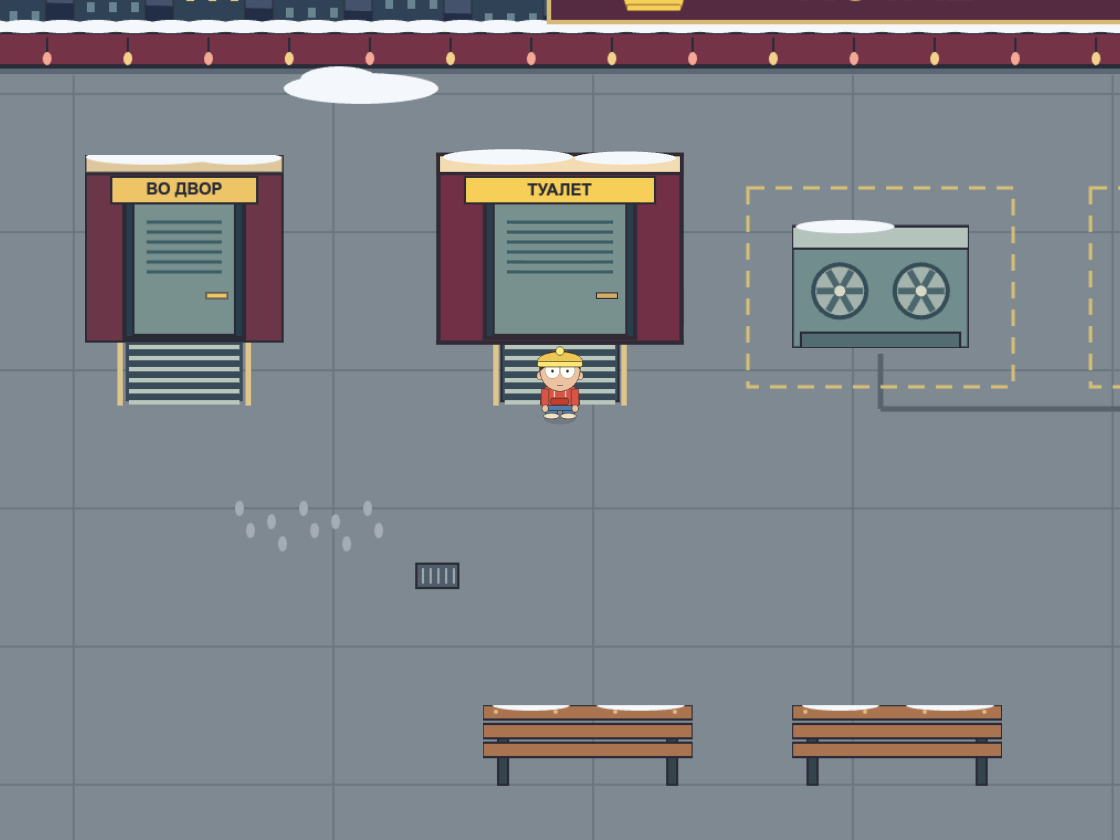
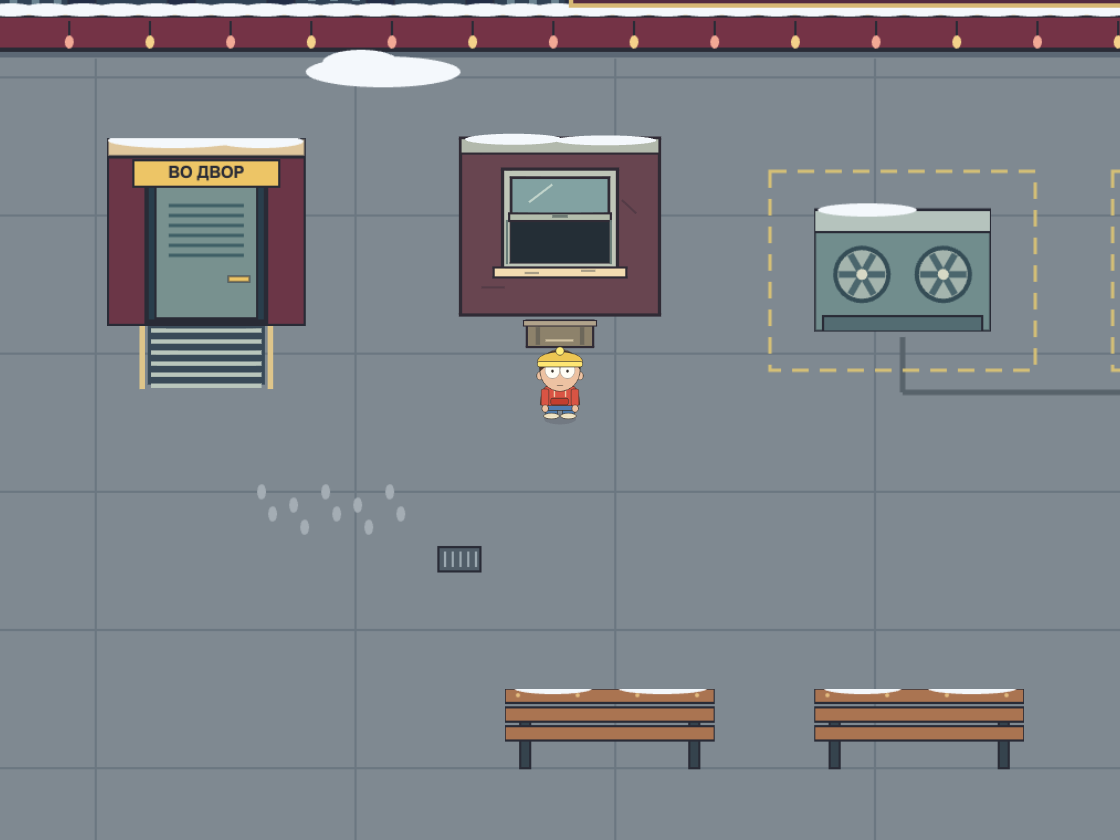
Refine rooftop restroom concept with a discreet window and compact room

diff --git a/docs/concepts/casino-rooftop-toilet/reference-scene.ts b/docs/concepts/casino-rooftop-toilet/reference-scene.ts
@@ -7,26 +7,29 @@ import { characterTexture,CHARACTER_SCALE } from '../../../src/game/characters';
 import { appearanceFromLegacy,serializeAppearance } from '../../../src/shared/appearance';
 
 // Proposal only. This scene never registers a hall or changes the running game.
-export const TOILET_ENTRY={x:760,y:410,w:220,h:170,approach:{x:870,y:650},trigger:{x:870,y:620}};
-export const TOILET_ROOM={width:1320,height:ROOF.height,floor:{...FLOOR,width:1320-FLOOR.x*2},bounds:{...BOUNDS,right:1250},spawn:{x:660,y:1210},exit:{x:660,y:1300}};
+export const TOILET_ENTRY={x:760,y:410,w:180,h:160,kind:'open-service-window',step:{x:820,y:575,w:60,h:24},approach:{x:850,y:665},trigger:{x:850,y:620}};
+export const TOILET_ROOM={width:740,height:610,floor:{...FLOOR,width:630,height:375},bounds:{...BOUNDS,right:670,bottom:530},spawn:{x:150,y:260},exit:{x:150,y:260},window:{x:110,y:46,w:104,h:92},step:{x:120,y:185,w:60,h:35}};
 const ink=0x302b35,cream=0xf3dcb1,gold=0xd4ae64,burgundy=0x713046,teal=0x315c64;
-const sinks=[{x:160,y:265,w:130,h:125},{x:350,y:265,w:130,h:125}];
-const stalls=[650,850,1050].map(x=>({x,y:220,w:180,h:190}));
+const sinks=[{x:100,y:350,w:84,h:80},{x:230,y:350,w:84,h:80}];
+const stalls=[355,460,565].map(x=>({x,y:220,w:87,h:94}));
+const bin={x:590,y:450,w:42,h:48},radiator={x:85,y:465,w:32,h:55};
 const roomObstacles:Obstacle[]=[
-  {x:0,y:0,w:1320,h:BOUNDS.top-1},{x:0,y:0,w:BOUNDS.left-1,h:1380},
-  {x:1251,y:0,w:5000,h:1380},{x:0,y:1301,w:590,h:100},{x:730,y:1301,w:590,h:100},...sinks,...stalls,
-  {x:130,y:920,w:200,h:60},{x:95,y:600,w:75,h:130},{x:500,y:400,w:60,h:65},
+  {x:0,y:0,w:TOILET_ROOM.width,h:BOUNDS.top-1},{x:0,y:0,w:BOUNDS.left-1,h:TOILET_ROOM.height},
+  {x:TOILET_ROOM.bounds.right+1,y:0,w:5000,h:TOILET_ROOM.height},
+  {x:0,y:TOILET_ROOM.bounds.bottom+1,w:TOILET_ROOM.width,h:100},...sinks,...stalls,
+  bin,radiator,TOILET_ROOM.step,
 ];
 
 export function geometryChecks(){
-  const roofObstacles=[...ROOF_OBSTACLES,TOILET_ENTRY];
-  const overlap=ROOF_OBSTACLES.some(o=>TOILET_ENTRY.x<o.x+o.w&&TOILET_ENTRY.x+TOILET_ENTRY.w>o.x&&TOILET_ENTRY.y<o.y+o.h&&TOILET_ENTRY.y+TOILET_ENTRY.h>o.y);
+  const roofObstacles=[...ROOF_OBSTACLES,TOILET_ENTRY,TOILET_ENTRY.step];
+  const overlap=[TOILET_ENTRY,TOILET_ENTRY.step].some(p=>ROOF_OBSTACLES.some(o=>p.x<o.x+o.w&&p.x+p.w>o.x&&p.y<o.y+o.h&&p.y+p.h>o.y));
   const roofPath=findPath(ROOF.spawn,TOILET_ENTRY.approach,roofObstacles);
   const perimeter=ROOF.loop.every((p,i)=>findPath(p,ROOF.loop[(i+1)%ROOF.loop.length],roofObstacles).length>0);
-  const targets=[{x:225,y:450},{x:415,y:450},...stalls.map(p=>({x:p.x+p.w/2,y:p.y+p.h+65})),TOILET_ROOM.exit];
+  const targets=[...sinks.map(p=>({x:p.x+p.w/2,y:p.y+p.h+50})),...stalls.map(p=>({x:p.x+p.w/2,y:p.y+p.h+50})),TOILET_ROOM.exit];
   const approaches=targets.map(p=>({point:p,walkable:walkable(p.x,p.y,roomObstacles,16),path:findPath(TOILET_ROOM.spawn,p,roomObstacles).length>0}));
-  if(overlap||!roofPath.length||!perimeter||approaches.some(p=>!p.walkable||!p.path))throw Error('Reference geometry has an obstructed approach');
-  return {roof:{width:ROOF.width,height:ROOF.height,deck:ROOF.deck,entry:TOILET_ENTRY,existingPropsUnmoved:true,noOverlap:!overlap,approachReachable:true,perimeterReachable:perimeter},room:{...TOILET_ROOM,proposed:true,approaches,obstacles:roomObstacles},projection:'Same camera fit and upright sprites as RoomScene.resizeView',character:{scale:CHARACTER_SCALE,width:96*CHARACTER_SCALE,height:144*CHARACTER_SCALE}};
+  const roofApproaches=[TOILET_ENTRY.approach,TOILET_ENTRY.trigger].every(p=>walkable(p.x,p.y,roofObstacles,16)&&findPath(ROOF.spawn,p,roofObstacles).length>0);
+  if(overlap||!roofPath.length||!roofApproaches||!perimeter||approaches.some(p=>!p.walkable||!p.path))throw Error('Reference geometry has an obstructed approach: '+JSON.stringify({overlap,roofApproaches,perimeter,approaches}));
+  return {roof:{width:ROOF.width,height:ROOF.height,deck:ROOF.deck,entry:TOILET_ENTRY,existingPropsUnmoved:true,noOverlap:!overlap,approachReachable:roofApproaches,perimeterReachable:perimeter},room:{...TOILET_ROOM,proposed:true,stalls,sinks,approaches,obstacles:roomObstacles,floorArea:TOILET_ROOM.floor.width*TOILET_ROOM.floor.height,previousFloorArea:1210*1145},projection:'Same camera fit and upright sprites as RoomScene.resizeView',character:{scale:CHARACTER_SCALE,width:96*CHARACTER_SCALE,height:144*CHARACTER_SCALE}};
 }
 
 export function startReference(mode:'roof'|'room',close:boolean){
@@ -34,8 +37,8 @@ export function startReference(mode:'roof'|'room',close:boolean){
   class ReferenceScene extends Phaser.Scene{
     create(){
       const frame=mode==='roof'?ROOF:TOILET_ROOM;
-      if(mode==='roof'){new RooftopRenderer(this,()=>{});this.roofDoor();}else this.restroom();
-      const point=mode==='roof'?TOILET_ENTRY.approach:close?{x:605,y:360}:TOILET_ROOM.spawn;
+      if(mode==='roof'){new RooftopRenderer(this,()=>{});this.roofWindow();}else this.restroom();
+      const point=mode==='roof'?TOILET_ENTRY.approach:close?{x:425,y:420}:TOILET_ROOM.spawn;
       const player=this.add.sprite(point.x,point.y,characterTexture(this,0,serializeAppearance(appearanceFromLegacy(0))),'down-6').setOrigin(.5,1).setScale(CHARACTER_SCALE).setDepth(point.y);
       this.add.ellipse(point.x,point.y-1,29,10,0x27202c,.15).setDepth(point.y-1);
       const fit=Math.min(size.width/(frame.width-40),size.height/(frame.height-HALL_WALL.viewTop-50));
@@ -47,42 +50,50 @@ export function startReference(mode:'roof'|'room',close:boolean){
     }
     box(g:Phaser.GameObjects.Graphics,x:number,y:number,w:number,h:number,color:number,edge=ink,line=2){g.fillStyle(color).fillRect(x,y,w,h);if(line)g.lineStyle(line,edge).strokeRect(x,y,w,h);}
     label(x:number,y:number,text:string,size=15,color='#f3dcb1',depth=10){return this.add.text(x,y,text,{fontFamily:'Arial',fontSize:size,fontStyle:'bold',color}).setOrigin(.5).setDepth(depth);}
-    roofDoor(){
+    serviceWindow(g:Phaser.GameObjects.Graphics,x:number,y:number){
+      this.box(g,x,y,104,92,0xbfc6b8,ink,3);this.box(g,x+7,y+7,90,78,0x242e36,ink,1);
+      this.box(g,x+8,y+8,88,34,0x82a2a2,ink,2);
+      g.lineStyle(2,0xc0d3ca).lineBetween(x+24,y+30,x+45,y+14);
+      this.box(g,x+6,y+40,92,7,0xb3bdac,ink,2);this.box(g,x+45,y+41,14,3,0x6e7b74,ink,0);
+      for(const dx of [4,98])g.lineStyle(2,0x697d78).lineBetween(x+dx,y+46,x+dx,y+86);
+      this.box(g,x-8,y+89,120,9,cream,ink,2);
+      g.lineStyle(2,0xa89d86).lineBetween(x+20,y+94,x+33,y+94).lineBetween(x+71,y+92,x+84,y+92);
+    }
+    roofWindow(){
       const p=TOILET_ENTRY,g=this.add.graphics().setDepth(p.y+p.h);
-      this.box(g,p.x,p.y,p.w,p.h,burgundy,ink,4);this.box(g,p.x,p.y,p.w,17,cream,ink,3);
-      this.box(g,p.x+42,p.y+34,136,132,0x293e4c,ink,4);this.box(g,p.x+50,p.y+42,120,121,0x78918f);
-      for(let y=p.y+61;y<p.y+107;y+=9)g.lineStyle(3,0x3e5e65).lineBetween(p.x+62,y,p.x+158,y);
-      this.box(g,p.x+143,p.y+125,19,5,gold,ink,1);this.box(g,p.x+24,p.y+20,p.w-48,24,0xf6cf58);
-      this.label(p.x+p.w/2,p.y+32,'ТУАЛЕТ',15,'#292b36',p.y+p.h+1);
-      g.fillStyle(0xf4f8fc).fillEllipse(p.x+63,p.y+2,118,14).fillEllipse(p.x+169,p.y+3,92,12);
-      const steps=this.add.graphics().setDepth(.1);this.box(steps,p.x+57,p.y+p.h,106,53,0x394a58);
-      for(let y=p.y+p.h+4;y<p.y+p.h+55;y+=10)steps.lineStyle(4,0xb9c6bc).lineBetween(p.x+60,y,p.x+160,y);
-      for(const x of [p.x+52,p.x+168])steps.lineStyle(5,0xdec58a).lineBetween(x,p.y+p.h-3,x,p.y+p.h+57);
+      this.box(g,p.x,p.y,p.w,p.h,0x684550,ink,3);this.box(g,p.x,p.y,p.w,14,0xb2b9ac,ink,2);
+      this.serviceWindow(g,p.x+38,p.y+28);
+      g.lineStyle(2,0x543b46).lineBetween(p.x+19,p.y+135,p.x+40,p.y+135).lineBetween(p.x+146,p.y+56,p.x+159,p.y+68);
+      g.fillStyle(0xf4f8fc).fillEllipse(p.x+48,p.y+1,88,10).fillEllipse(p.x+131,p.y+2,92,9);
+      const step=this.add.graphics().setDepth(p.step.y+p.step.h);
+      this.box(step,p.step.x,p.step.y,p.step.w,p.step.h,0x8d826b,ink,2);
+      this.box(step,p.step.x-3,p.step.y,66,5,0xb1a38b,ink,1);
+      for(const x of [p.step.x+8,p.step.x+48])this.box(step,x,p.step.y+6,4,16,0x6c675a,ink,0);
+      step.lineStyle(2,0xd1c2a1).lineBetween(p.step.x+17,p.step.y+18,p.step.x+42,p.step.y+18);
     }
     restroom(){
-      const {floor}=TOILET_ROOM,g=this.add.graphics().setDepth(0);
-      this.box(g,0,HALL_WALL.viewTop,1320,1380-HALL_WALL.viewTop,0x191d35,ink,0);
+      const {floor,width,height}=TOILET_ROOM,g=this.add.graphics().setDepth(0),right=floor.x+floor.width,bottom=floor.y+floor.height;
+      this.box(g,0,HALL_WALL.viewTop,width,height-HALL_WALL.viewTop,0x191d35,ink,0);
       this.box(g,floor.x,HALL_WALL.top,floor.width,HALL_WALL.height,0xead9b4,ink,0);
-      for(let y=HALL_WALL.top;y<175;y+=55)for(let x=55;x<1265;x+=72)this.box(g,x,y,72,55,0xeadfc8,0xcabda3,1);
-      this.box(g,55,110,1210,65,0x4f7974,ink,0);g.lineStyle(4,gold).lineBetween(55,110,1265,110);
+      for(let y=HALL_WALL.top;y<floor.y;y+=55)for(let x=floor.x;x<right;x+=72)this.box(g,x,y,Math.min(72,right-x),55,0xeadfc8,0xcabda3,1);
+      this.box(g,floor.x,110,floor.width,65,0x4f7974,ink,0);g.lineStyle(4,gold).lineBetween(floor.x,110,right,110);
       this.box(g,floor.x,floor.y,floor.width,floor.height,0xc4c5bd,ink,0);
-      for(let y=floor.y;y<1320;y+=72)for(let x=floor.x;x<1265;x+=72){this.box(g,x,y,72,72,((Math.round((x-55)/72)+Math.round((y-175)/72))%2)?0xd4d1c2:0xbec4bf,0x9ea8a5,1);}
-      for(const x of [40,1267]){this.box(g,x,HALL_WALL.top,14,1420,0x3c1829,ink,0);this.box(g,x+9,HALL_WALL.top,3,1420,gold,ink,0);}
-      for(const [x,w]of [[40,550],[730,550]]){this.box(g,x,1320,w,17,0x271921,ink,0);this.box(g,x,1320,w,3,gold,ink,0);}
-      // The south exit uses the same flat floor opening as the casino's ground-floor exit.
-      this.box(g,590,1270,140,53,0x302637,ink,3);this.box(g,605,1277,110,39,0x315c64,ink,0);
-      for(const x of [586,728]){this.box(g,x,1260,7,69,0xb38a53);this.box(g,x+2,1263,2,61,0xf5d369,ink,0);}
-      this.label(660,1238,'НА КРЫШУ',16,'#6d533e',2);
+      for(let y=floor.y;y<bottom;y+=72)for(let x=floor.x;x<right;x+=72){this.box(g,x,y,Math.min(72,right-x),Math.min(72,bottom-y),((Math.round((x-floor.x)/72)+Math.round((y-floor.y)/72))%2)?0xd4d1c2:0xbec4bf,0x9ea8a5,1);}
+      for(const x of [40,right+2]){this.box(g,x,HALL_WALL.top,14,bottom-HALL_WALL.top,0x3c1829,ink,0);this.box(g,x+9,HALL_WALL.top,3,bottom-HALL_WALL.top,gold,ink,0);}
+      this.box(g,40,bottom,right-24,17,0x271921,ink,0);this.box(g,40,bottom,right-24,3,gold,ink,0);
+      const window=this.add.graphics().setDepth(1);this.serviceWindow(window,TOILET_ROOM.window.x,TOILET_ROOM.window.y);
+      const step=this.add.graphics().setDepth(TOILET_ROOM.step.y+TOILET_ROOM.step.h);
+      this.box(step,120,185,60,10,0xb4a18a);for(const x of [124,168])this.box(step,x,195,8,25,0x7e7768);
       for(const p of sinks)this.sink(p.x,p.y);
       stalls.forEach((p,i)=>this.stall(p.x,p.y,i===2));
-      const bin=this.add.graphics().setDepth(465);this.box(bin,500,405,60,60,0x485251);this.box(bin,495,401,70,10,0x303b3c);bin.lineStyle(3,0x8d9892).lineBetween(516,415,516,451);
-      const radiator=this.add.graphics().setDepth(730);this.box(radiator,95,625,75,105,0xb8c0b8);for(let x=101;x<165;x+=12){this.box(radiator,x,615,8,108,0xe2e0ca,0x687e7d,1);}radiator.lineStyle(5,0x627c78).lineBetween(128,590,128,615);
-      const bench=this.add.graphics().setDepth(980);for(const y of [924,942,960])this.box(bench,130,y,200,13,0xaa7451);for(const x of [146,305])this.box(bench,x,975,8,12,0x35434d);
-      const vent=this.add.graphics().setDepth(1);this.box(vent,615,-34,90,55,0x647f7c);for(let y=-24;y<15;y+=8)vent.lineStyle(3,0x354e56).lineBetween(624,y,695,y);
-      this.label(660,78,'ТУАЛЕТ',26,'#493c35',2);
+      const trash=this.add.graphics().setDepth(bin.y+bin.h);this.box(trash,bin.x,bin.y,bin.w,bin.h,0x485251);this.box(trash,bin.x-3,bin.y-3,bin.w+6,7,0x303b3c);trash.lineStyle(2,0x8d9892).lineBetween(bin.x+12,bin.y+10,bin.x+12,bin.y+37);
+      const heat=this.add.graphics().setDepth(radiator.y+radiator.h);this.box(heat,radiator.x,radiator.y+6,radiator.w,radiator.h-6,0xb8c0b8);for(let x=radiator.x+4;x<radiator.x+radiator.w-3;x+=9)this.box(heat,x,radiator.y,6,radiator.h-5,0xe2e0ca,0x687e7d,1);heat.lineStyle(3,0x627c78).lineBetween(105,450,105,465);
+      const vent=this.add.graphics().setDepth(1);this.box(vent,590,-20,66,40,0x647f7c);for(let y=-13;y<16;y+=6)vent.lineStyle(2,0x354e56).lineBetween(596,y,650,y);
+      this.label(width/2,78,'ТУАЛЕТ',21,'#493c35',2);
     }
     sink(x:number,y:number){
-      const g=this.add.graphics().setDepth(y+125);
+      const g=this.add.graphics().setDepth(y+80).setPosition(x,y).setScale(.64);
+      x=0;y=0;
       this.box(g,x+7,y-35,116,150,gold,ink,3);this.box(g,x+13,y-29,104,138,0x89a6aa,ink,1);
       g.lineStyle(3,0xccdfd4).lineBetween(x+27,y+91,x+93,y+6);
       this.box(g,x+51,y+99,28,26,0xd8d9c8,ink,2);this.box(g,x+6,y+78,118,28,0xf0ead3,ink,3);
@@ -92,7 +103,7 @@ export function startReference(mode:'roof'|'room',close:boolean){
       this.box(g,x+132,y+18,31,48,0xd2cbb8,ink,2);this.box(g,x+136,y+59,23,15,0xf8f0d5,ink,1);
     }
     stall(x:number,y:number,open:boolean){
-      const g=this.add.graphics().setDepth(y+190).setPosition(x,y).setScale(1,.76);
+      const g=this.add.graphics().setDepth(y+94).setPosition(x,y).setScale(.48,.36);
       x=0;y=0;
       this.box(g,x,y,180,250,0x444b47,ink,4);this.box(g,x+7,y+7,166,236,0xd3d6c3,ink,0);
       if(open){
@@ -103,7 +114,7 @@ export function startReference(mode:'roof'|'room',close:boolean){
       }else{
         this.box(g,x+13,y+12,154,221,burgundy,ink,3);this.box(g,x+24,y+22,132,185,0x843d50,ink,1);
         this.box(g,x+29,y+92,32,23,cream,ink,1);
-        this.label(g.x+45,g.y+104*.76,'WC',13,'#302b35',g.depth+1);
+        this.label(g.x+45*.48,g.y+104*.36,'WC',8,'#302b35',g.depth+1);
         g.fillStyle(gold).fillCircle(x+143,y+142,6);g.fillStyle(0x8db191).fillCircle(x+143,y+122,3);
       }
       for(const dx of [0,172])this.box(g,x+dx,y+248,8,12,0x8b9991,ink,1);

diff --git a/docs/concepts/casino-rooftop-toilet/README.md b/docs/concepts/casino-rooftop-toilet/README.md
@@ -5,11 +5,13 @@
 - [Крыша целиком](roof-overview.png) и [вход вблизи](roof-close.png).
 - [Предлагаемый план туалета](room-overview.png) и [сантехника в игровом масштабе](room-close.png).
 
-Крыша берётся напрямую из `RooftopRenderer` и `ROOF`: 2240 на 1380 единиц. Парапет, город, вентиляция, скамейки, антенна и существующий выход сохраняют координаты. Новый объём занимает прямоугольник x=760, y=410, ширина 220, высота 170, между старым выходом и первым вентиляционным блоком. Подход к двери: x=870, y=650. Макет двери использует размеры и плоское оформление существующего люка.
+Крыша берётся напрямую из `RooftopRenderer` и `ROOF`: 2240 на 1380 единиц. Парапет, город, вентиляция, скамейки, антенна и существующий выход сохраняют координаты. Новый служебный объём занимает прямоугольник x=760, y=410, ширина 180, высота 160, между старым выходом и первым вентиляционным блоком.
 
-У туалета ещё нет реализованной карты. Здесь предложена отдельная комната шириной 1320 с общей игровой высотой 1380. Верх стены, начало пола, нижняя граница и южный выход следуют `HALL_WALL`, `FLOOR` и `BOUNDS`. Сетка пола прямоугольная, персонаж использует штатный атлас и `CHARACTER_SCALE`. Формулы общего вида и ближней камеры взяты из `RoomScene.resizeView`. Комната показана как проект плана, а не как уже существующая геометрия.
+Вход выглядит как небольшое окно 104 на 92 с поднятой нижней створкой и тёмным открытым проёмом. Подоконник потёрт, под окном стоит служебный ящик, который подсказывает возможность забраться. Вывески, ручки двери и лестницы у этого входа нет. Подход: x=850, y=665, точка перед ящиком для начала залезания: x=850, y=620. Это визуальный референс, анимация залезания пока не реализована.
 
-Верхняя часть комнаты содержит две раковины с зеркалами и три кабинки. Внизу находится выход на крышу. По краю стоят урна, радиатор и скамейка; центральный проход свободен. Коллизии и точки подхода пока относятся только к проверяемому макету.
+У туалета ещё нет реализованной карты. Здесь предложена отдельная комната 740 на 610, пол 630 на 375. По сравнению с предыдущим макетом 1320 на 1380 площадь пола уменьшена примерно на 83%. Верх стены и начало пола следуют `HALL_WALL` и `FLOOR`; правая и нижняя границы адаптированы под компактную комнату. Сетка пола прямоугольная, персонаж использует штатный атлас и неизменный `CHARACTER_SCALE`. Формулы общего вида и ближней камеры взяты из `RoomScene.resizeView`. Комната показана как проект плана, а не как уже существующая геометрия.
+
+Справа находятся три кабинки с округлённым занимаемым прямоугольником 87 на 94 вместо прежних 180 на 190. Слева две уменьшенные раковины с зеркалами, мылом и полотенцами. По краю стоят небольшие урна и радиатор; скамейка и большой пустой участок убраны. На задней стене показано то же окно и подставка для возвращения на крышу. Южного дверного выхода больше нет. Центральный проход свободен. Коллизии и точки подхода пока относятся только к проверяемому макету.
 
 Команда из корня текущего checkout:
 
@@ -17,4 +19,4 @@
 node docs/concepts/casino-rooftop-toilet/render.mjs
 ```
 
-Результат и хеши исходников: [geometry.json](geometry.json). Проверены отсутствие пересечения с оборудованием крыши, путь от существующего появления до новой двери, весь текущий обход крыши, подходы к раковинам, кабинкам и южному выходу. Рендер проверен на ошибки браузера и просмотрен визуально. Новые маршруты, серверные переходы, игры, ставки и кошелёк не добавлялись. Ранее сгенерированные свободные варианты отклонены и в этот набор не входят.
+Результат и хеши исходников: [geometry.json](geometry.json). Проверены отсутствие пересечения окна и ящика с оборудованием крыши, пути от существующего появления к обеим точкам входа, весь текущий обход крыши, подходы к раковинам, кабинкам и внутреннему окну. Рендер проверен на ошибки браузера и просмотрен визуально. Новые маршруты, серверные переходы, игры, ставки и кошелёк не добавлялись. Ранее сгенерированные свободные варианты отклонены и в этот набор не входят.
